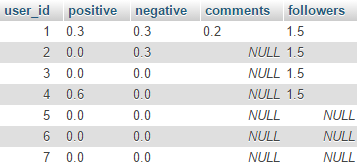
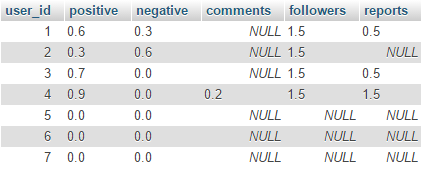
Updated user rep scoring implementation to include reports

diff --git a/Chapters/6.Implementation/DataProcessing/ReputationScoring.tex b/Chapters/6.Implementation/DataProcessing/ReputationScoring.tex
@@ -2,7 +2,7 @@
 Reputation Scores are generated using two python scripts. One for reputation scoring posts and another for reputation scoring users. The scripts will each be scheduled to automatically run periodically and require no external intervention to execute. Each script will first establish a connection to the database using the mysql.connector library [39]. The library contains several functions to interact with the database. Once a connection is established, the database is queried and the results of those queries are used in the script to generate reputation scores for each post or user in the system (depending on the script). These scores are then normalised between 0 and 1 and then the database is updated with these newly calculated reputation scores using the database connection created earlier. The connection is then closed before the script terminates.
 
 \subsubsection{Reputation Scoring for Posts}
-Once a connection to the database has been established, the database must be queried to return a table with the values required to score the reputation of each post. These values are: The number of comments on the post, the number of upvotes on the post and the number of downvotes on the post. Figure \ref{fig:PostRepQuery} shows the query used to attain these values. The query selects 3 attributes from the comments table, grouped by the post id. The comments table is used because every post in the system is treated as a `root comment'. The first attribute, `comments' finds the number of entries in this table with the id of the post, subtracting 1 since the post itself must be discounted. The `upvotes' and 	`downvotes' attributes are found simply by finding those values from the comments table. Note that the query also performs the weighting needed for the summation of these attributes in the algorithm.
+Once a connection to the database has been established, the database must be queried to return a table with the values required to score the reputation of each post. These values are: The number of comments on the post, the number of upvotes on the post and the number of downvotes on the post. Figure \ref{fig:PostRepQuery} shows the query used to attain these values. The query selects 3 attributes from the comments table, grouped by the post id. The comments table is used because every post in the system is treated as a `root comment'. The first attribute, `comments' finds the weighted number of entries in this table with the id of the post, subtracting 1 since the post itself must be discounted. The `positive' and `negative' attributes are found simply by finding the weighted `upvotes' and `downvotes' values from the comments table respectively. Note that the query also performs the weighting needed for the summation of these attributes in the algorithm.
 
 \begin{figure}[H]
 \centering
@@ -48,7 +48,7 @@ Finally, as shown in Figure \ref{fig:PostRepPython3}, the script runs through ea
 \end{figure}
 
 \subsubsection{Reputation Scoring for Users}
-Once a connection to the database has been established, the database must be queried to return a table with the values required to score the reputation of each user. These values are: the number of upvotes on all of the user's posts, the number of downvotes on all of the user's posts, the number of comments on all of the user's posts, the number of upvotes on all of the user's comments, the number of downvotes on all of the user's comments and the number of followers a user has. Figure \ref{fig:UserRepQuery} shows the query used to attain these values. The query selects 4 attributes from the various tables, using a number of joins. In total, the query joins together 3 separate subqueries. The first subquery finds the weighted number of upvotes on all of the user's comments and posts as well as the weighted number of downvotes on all of the user's comments. The next subquery will find the weighted number of comments on all of the users posts, where the comment isn't a `root comment' (i.e. a post) and the user id on the comment is not that of the user whose reputation is being scored. This avoids a user potentially creating many comments on their own posts simply to `boost' their reputation score.
+Once a connection to the database has been established, the database must be queried to return a table with the values required to score the reputation of each user. These values are: the total number of upvotes on all of the user's posts, the total number of downvotes on all of the user's posts, the total number of comments on all of the user's posts, the total number of upvotes on all of the user's comments, the total number of downvotes on all of the user's comments, the number of followers a user has and the number of times the user has been reported. Figure \ref{fig:UserRepQuery} shows the query used to attain these values. The query selects 5 attributes from the various tables, using a number of joins. In total, the query joins together 4 separate subqueries. The first subquery finds the weighted number of upvotes on all of the user's comments and posts as well as the weighted number of downvotes on all of the user's comments. The next subquery will find the weighted number of comments on all of the users posts, where the comment isn't a `root comment' (i.e. a post) and the user id on the comment is not that of the user whose reputation is being scored. This avoids a user potentially creating many comments on their own posts simply to `boost' their reputation score. The third subquery finds the weighted number of other users following the user in question. The final subquery finds all of the posts/comments belonging to the user and sums the number of times each one has been reported by other users.
 
 \begin{figure}[H]
 \centering
@@ -66,7 +66,7 @@ Upon the conclusion of this query, the result will be a table similar to that sh
 \label{fig:UserRepTable}
 \end{figure}
 
-The python script will then iterate through each row of the result of this query. For each row, the script will perform the summation of the weighted values (positive, negative, comments and followers) to get a reputation value. Note that the `negative' value for each user is subtracted instead of added to comply with the desired weightings. These values are all then inserted into a pandas dataframe \cite{Pandas} along with their respective user id. This is shown in Figure \ref{fig:UserRepPython1}.
+The python script will then iterate through each row of the result of this query. For each row, the script will perform the summation of the weighted values (positive, negative, comments, followers and reports) to get a reputation value. Note that both the `negative' value and `reports' values for each user are subtracted instead of added to comply with the desired weightings. These values are all then inserted into a pandas dataframe \cite{Pandas} along with their respective user id. This is shown in Figure \ref{fig:UserRepPython1}.
 
 \begin{figure}[H]
 \centering
